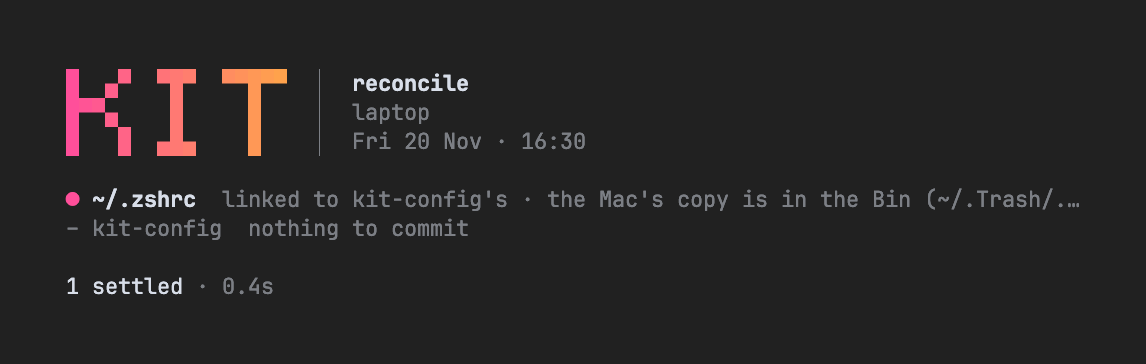
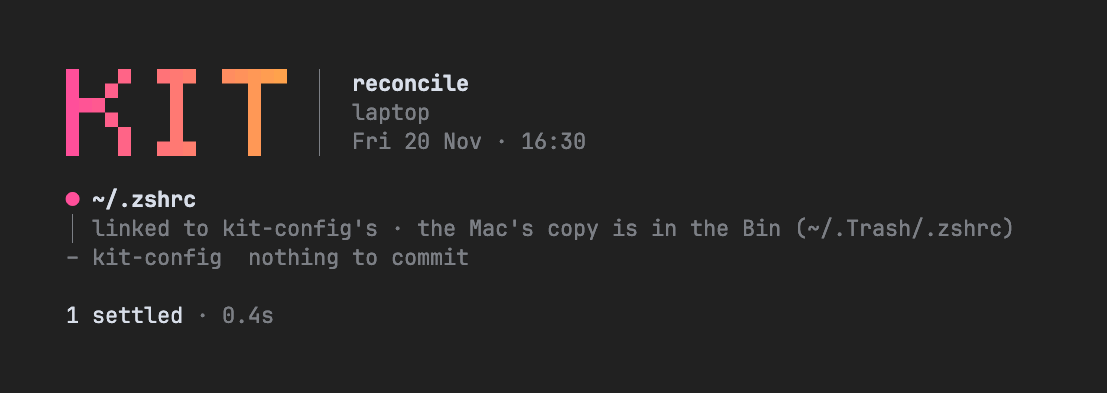
Rows left in the scrollback by setup and the boot, and the commands a run's log lists, wrap instead of being cut; docs stills are sized from what kit draws, and the moved ones are re-recorded

diff --git a/internal/capture/docs.go b/internal/capture/docs.go
@@ -2,6 +2,7 @@ package capture
 
 import (
 	"bytes"
+	"fmt"
 	"io"
 	"slices"
 	"strings"
@@ -92,22 +93,33 @@ type said struct {
 func committed(what string) said { return said{"kit-config", []string{"committed and pushed " + what}} }
 
 // result is the still name of what kit command prints at a terminal once
-// done, a row a step, kit-config's last: as wide as its longest; or, with a
-// row too long for a line, as wide as kit draws, that row stacked, as it
-// wraps under its name.
+// done, a row a step, kit-config's last: a window as small as what kit's
+// face draws of it, as fit sizes it.
 func result(name, about, command string, steps ...said) Fixture {
-	width, height := 0, 2
-	for _, s := range steps {
-		says := strings.Join(s.says, " · ")
-		if ansi.StringWidth("  ● "+s.step+"  "+says) <= look.Width {
-			width, height = max(width, ansi.StringWidth(s.step+strings.Join(s.says, "; "))+12), height+1
-			continue
-		}
-		width, height = look.Width+2, height+1+len(look.Wrap(says, look.Width-4))
-	}
-	return Fixture{Name: name, About: about, Width: min(width, look.Width+2), Height: height, Shows: "kit-config",
-		at: docsAt, draw: onFace(func(at time.Time) []event.Event { return changeRun(at, command, steps) })}
+	run := func(at time.Time) []event.Event { return changeRun(at, command, steps) }
+	width, height := fit(run(docsAt))
+	return Fixture{Name: name, About: about, Width: width, Height: height, Shows: "kit-config", at: docsAt, draw: onFace(run), fitted: true}
 }
+
+// fit is the window events are drawn in on kit's face, as small as what
+// the face draws at kit's widest: a few columns wider than its widest line,
+// no wider than kit's width and a column either side, and as high, the
+// line its cursor ends on too.
+func fit(events []event.Event) (width, height int) {
+	var out bytes.Buffer
+	if err := draw(&out, func() (int, int) { return look.Width, 0 }, events); err != nil {
+		panic(fmt.Errorf("draw a still's run: %w", err))
+	}
+	lines := strings.Split(strings.TrimSuffix(ansi.Strip(out.String()), "\n"), "\n")
+	for _, l := range lines {
+		width = max(width, ansi.StringWidth(strings.TrimRight(l, " ")))
+	}
+	return min(width+stillMargin, look.Width+2), len(lines) + 1
+}
+
+// stillMargin is how many columns a docs still's window has past its
+// widest line.
+const stillMargin = 6
 
 // changeRun is a command's run that changes things a name at a time, as
 // kit runs one: a step for each name, then kit-config's, committing and

diff --git a/internal/look/look_test.go b/internal/look/look_test.go
@@ -79,9 +79,9 @@ func TestRowsNeverBreak(t *testing.T) {
 }
 
 // A whole row is never cut: one that fits is as it is, what it keeps and
-// all; one too long for its line has its name on its own line, wrapped, and
-// what it says, with what it keeps, wrapped under it, on a timeline's line in a timeline;
-// what belongs to it goes under that.
+// all; one too long for its line has its name on its own line, wrapped,
+// and what it says, with what it keeps, wrapped under it, on a timeline's
+// line in a timeline; what belongs to it goes under that.
 func TestWholeRowsWrap(t *testing.T) {
 	names := look.Row{State: look.NeedsYou, Name: "charger:hibernatemode, charger:networkoversleep", Says: look.Yellow("need an administrator's password"), Whole: true}
 	same(t, look.Rows("  ", 90, names), "  ▲ charger:hibernatemode, charger:networkoversleep  need an administrator's password")
@@ -559,8 +559,9 @@ func TestRanOnOneLine(t *testing.T) {
 }
 
 // The boot's log: a state's bracket in the mark's place, the name, then what
-// it says; what belongs to a line under its name; the wordmark plain, with
-// what's running, the Mac and when beside it.
+// it says; what belongs to a line under its name; a line too long cut, but a
+// whole row's, wrapped under its name; the wordmark plain, with what's
+// running, the Mac and when beside it.
 func TestBootRows(t *testing.T) {
 	b := look.NewBoot(true)
 	same(t, b.Rows(look.Width,
@@ -581,6 +582,16 @@ func TestBootRows(t *testing.T) {
 		"  [    ] Password  once · Touch ID after",
 		"  [ -- ] Not here  Homebrew · 1Password",
 		"  [FAIL] kit-config  couldn't clone",
+	)
+	long := look.Row{State: look.Done, Name: "kit-config", Says: b.Says(b.Mid("cloned"), b.Mid("laptop's declarations read")), Under: []string{b.Todo("open Ghostty to carry on")}}
+	same(t, b.Rows(30, long), "  [ OK ] kit-config  cloned ·…", "         → open Ghostty to ca…")
+	long.Whole = true
+	same(t, b.Rows(30, long),
+		"  [ OK ] kit-config",
+		"         cloned · laptop's",
+		"         declarations read",
+		"         → open Ghostty to",
+		"           carry on",
 	)
 	same(t, b.Head(b.Meta("bootstrap", "Some-MacBook", "Thu 8 Oct · 18:02")...),
 		"  █  ▄▀  ▀█▀  ▀▀█▀▀  │  bootstrap",

diff --git a/internal/look/look.go b/internal/look/look.go
@@ -238,7 +238,7 @@ func named(r Row) string {
 // lines under it, wrapped too, then what belongs to it, as Timeline draws
 // it.
 func Stacked(indent string, w int, r Row) []string {
-	r = r.unbroken()
+	r = r.unbroken().kept()
 	under := indent + Dim("│") + " "
 	out := stack(indent, under, w, r)
 	for _, u := range r.Under {
@@ -250,18 +250,24 @@ func Stacked(indent string, w int, r Row) []string {
 // whole is r's line after indent, w wide, never cut: on one line, what it
 // keeps and all, when it fits; else stacked.
 func whole(indent, under string, w int, r Row) []string {
-	if r.Kept != "" {
-		r.Says, r.Kept = Says(r.Says, r.Kept), ""
-	}
+	r = r.kept()
 	if l := line(indent, r); ansi.StringWidth(l) <= w {
 		return []string{l}
 	}
 	return stack(indent, under, w, r)
 }
 
+// kept is r with what it keeps said after what it says, as a row drawn
+// whole says it.
+func (r Row) kept() Row {
+	if r.Kept != "" {
+		r.Says, r.Kept = Says(r.Says, r.Kept), ""
+	}
+	return r
+}
+
 // stack is r's line stacked after indent, w wide: its mark and its name,
-// wrapped, then what it says, and what it keeps, wrapped on the lines
-// after under.
+// wrapped, then what it says wrapped on the lines after under.
 func stack(indent, under string, w int, r Row) []string {
 	head := indent + Mark(r.State) + " "
 	room := w - ansi.StringWidth(head)
@@ -273,12 +279,8 @@ func stack(indent, under string, w int, r Row) []string {
 			out = append(out, under+l)
 		}
 	}
-	says := r.Says
-	if r.Kept != "" {
-		says = Says(says, r.Kept)
-	}
-	if says != "" {
-		for _, l := range wrap(says, room, "") {
+	if r.Says != "" {
+		for _, l := range wrap(r.Says, room, "") {
 			out = append(out, under+l)
 		}
 	}

diff --git a/internal/look/boot.go b/internal/look/boot.go
@@ -2,9 +2,11 @@ package look
 
 import (
 	"image/color"
+	"slices"
 	"strings"
 
 	"charm.land/lipgloss/v2"
+	"github.com/charmbracelet/x/ansi"
 	"rsc.io/qr"
 )
 
@@ -108,7 +110,9 @@ func (b Boot) Words(s State, text string) string {
 const BootUnder = "         "
 
 // Rows are a boot log's lines: each its tag, its name, two spaces, what it
-// says; what belongs to it under its name. Every line is cut at w.
+// says; what belongs to it under its name. Every line is cut at w, but a
+// whole row's: too long for its line, its name goes on its own, and what it
+// says, and what's under it, wrapped under the name.
 func (b Boot) Rows(w int, rs ...Row) []string {
 	var out []string
 	for _, r := range rs {
@@ -116,13 +120,26 @@ func (b Boot) Rows(w int, rs ...Row) []string {
 		if r.State == Queued || r.State == Skipped {
 			name = b.Full(r.Name)
 		}
-		l := "  " + b.Tag(r.State) + " " + name
+		head := "  " + b.Tag(r.State) + " "
+		l := head + name
 		if r.Says != "" {
 			l += "  " + r.Says
 		}
-		out = append(out, Cut(l, w))
-		for _, u := range r.Under {
-			out = append(out, Cut(BootUnder+u, w))
+		if !r.Whole || ansi.StringWidth(l) <= w {
+			out = append(out, Cut(l, w))
+			for _, u := range r.Under {
+				out = append(out, Cut(BootUnder+u, w))
+			}
+			continue
+		}
+		room := w - len(BootUnder)
+		lines := wrap(name, room, "")
+		if r.Says != "" {
+			lines = append(lines, wrap(r.Says, room, "")...)
+		}
+		out = append(out, head+lines[0])
+		for _, part := range slices.Concat(lines[1:], Fold(BootUnder[2:], w, r.Under...)) {
+			out = append(out, BootUnder+part)
 		}
 	}
 	return out

diff --git a/internal/render/setup.go b/internal/render/setup.go
@@ -366,14 +366,14 @@ func (f *SetupFace) stepRow(s event.Step, width, height int, live bool) look.Row
 	r := f.rows[s.Name]
 	if s.Name == setup.ConfigStep {
 		if c := f.rows[setup.CommitStep]; c != nil && (c.running || f.reached(c.finished)) && r != nil && r.finished != nil {
-			return f.committed(s.Title, *r.finished, c, width)
+			return leftWhole(f.committed(s.Title, *r.finished, c, width), live)
 		}
 	}
 	switch {
 	case f.q != nil && f.q.step == s.Name && f.q.kind != picking:
 		return f.asking(s.Title, width, height)
 	case r != nil && r.finished != nil:
-		return f.ended(s.Title, *r.finished, width)
+		return leftWhole(f.ended(s.Title, *r.finished, width), live)
 	case r != nil && r.running:
 		row := look.Row{State: look.Running, Name: s.Title, Says: look.Words(look.Running, cmp.Or(r.doing, "working"))}
 		if live && r.code != nil {
@@ -385,6 +385,13 @@ func (f *SetupFace) stepRow(s event.Step, width, height int, live bool) look.Row
 		return look.Row{State: look.Running, Name: s.Title, Says: look.Words(look.Running, f.parts[i].Doing)}
 	}
 	return look.Row{State: look.Queued, Name: s.Title}
+}
+
+// leftWhole is an ended step's row, never cut once the screen's left in the
+// scrollback, as the record; live, cut, as a glance.
+func leftWhole(row look.Row, live bool) look.Row {
+	row.Whole = row.Whole || !live
+	return row
 }
 
 // reached reports whether a step ended as it ran to its end: done, needing

diff --git a/internal/render/logview_test.go b/internal/render/logview_test.go
@@ -90,7 +90,8 @@ func TestLogRunKeepsASummarysParts(t *testing.T) {
 
 // At a terminal, a run's log is a timeline: the run as a row, then each
 // step after the time it started, what it ran on the line under it, each
-// command on one line, and what one that failed said, without the command.
+// command on one line, and what one that failed said, without the command,
+// wrapped, the run's own commands' as each step's.
 // A step that failed says what went wrong, and why under it, wrapped, unless a
 // command it ran said the same.
 func TestLogRun(t *testing.T) {
@@ -105,6 +106,7 @@ func TestLogRun(t *testing.T) {
 			{Name: "homebrew", Title: "Homebrew"}, {Name: "remote-session", Title: "remote-session"}, {Name: "gpg-key", Title: "gpg-key"},
 			{Name: "login-item", Title: "macOS login items"}, {Name: "fonts", Title: "fonts"},
 		}},
+		{Time: at, Event: "command", Command: "git pull", Exit: new(1), DurationMS: 900, Error: "git pull exited 1: fatal: unable to access the remote, as the network it was reached over has gone away"},
 		{Time: at, Event: "step_started", Step: "homebrew"},
 		{Time: at, Event: "command", Step: "homebrew", Command: "brew --prefix", Exit: new(0), DurationMS: 110},
 		{Time: at, Event: "step_finished", Step: "homebrew", Result: &ok, DurationMS: 120},

diff --git a/internal/render/boot_test.go b/internal/render/boot_test.go
@@ -314,6 +314,27 @@ func TestBootFaceFits(t *testing.T) {
 	}
 }
 
+// A row done is a glance on the live screen, cut; in what the boot leaves
+// in the scrollback, its record, wrapped, never cut.
+func TestBootFaceLeavesRowsWhole(t *testing.T) {
+	at := time.Date(2026, 10, 8, 18, 2, 0, 0, time.UTC)
+	f := render.NewBootFace(ask.Terminal{Out: &bytes.Buffer{}}, true, func() time.Time { return at }, nil)
+	f.Show(bootSteps)
+	said := "someone · kit-config has laptop, studio and the Mac in the next room"
+	f.Emit(event.StepFinished{Time: at, Step: "github", Result: check.Result{State: check.OK, Summary: said}})
+	if text := plainView(f, 40); !strings.Contains(text, "…") {
+		t.Errorf("live, drew\n%s\nwant the row cut", text)
+	}
+	var left []string
+	for _, l := range f.Leaves(52) {
+		left = append(left, ansi.Strip(l))
+	}
+	text := strings.Join(left, "\n")
+	if strings.Contains(text, "…") || !strings.Contains(strings.Join(strings.Fields(text), " "), said) {
+		t.Errorf("left\n%s\nwant %q whole", text, said)
+	}
+}
+
 // A step failing with a reason of several lines, as a program's standard
 // error, draws as a line a row all the same, as the screen counts them.
 func TestBootFaceRowsNeverBreak(t *testing.T) {

diff --git a/internal/render/setup_test.go b/internal/render/setup_test.go
@@ -66,14 +66,20 @@ func viewed(f *render.SetupFace, width, height int) string {
 	return ansi.Strip(strings.Join(f.View(width, height), "\n"))
 }
 
-// rowEnds are the last words of each row in lines, a row a line its mark
-// starts.
+// rowEnds are the last words of each row in lines: a line its mark starts,
+// and those on its timeline after it, as a row wraps.
 func rowEnds(lines []string) []string {
 	var out []string
+	row := false
 	for _, l := range lines {
 		words := strings.Fields(ansi.Strip(l))
-		if len(words) > 1 && slices.Contains([]string{"●", "▲", "✗", "–", "○"}, words[0]) {
-			out = append(out, words[len(words)-1])
+		switch {
+		case len(words) > 1 && slices.Contains([]string{"●", "▲", "✗", "–", "○"}, words[0]):
+			out, row = append(out, words[len(words)-1]), true
+		case row && len(words) > 1 && words[0] == "│":
+			out[len(out)-1] = words[len(words)-1]
+		default:
+			row = false
 		}
 	}
 	return out

diff --git a/internal/capture/capture_test.go b/internal/capture/capture_test.go
@@ -51,8 +51,12 @@ func TestFixtures(t *testing.T) {
 			if widest := widestLine(got); f.Held() && !f.Whole() && (widest > f.Width-2 || widest < f.Width-6) {
 				t.Errorf("drew %d columns in a window %d wide: want it a column or two wider than what it draws", widest, f.Width)
 			}
-			if lines := strings.Count(got, "\n") + 1; f.Held() && lines > f.Height {
+			lines := strings.Count(got, "\n") + 1
+			if f.Held() && lines > f.Height {
 				t.Errorf("drew %d lines in a window %d high: its head scrolls away", lines, f.Height)
+			}
+			if f.Fitted() && lines != f.Height {
+				t.Errorf("drew %d lines in a window %d high: want it as high as what it draws, the line its cursor ends on too", lines, f.Height)
 			}
 			if f.Held() && (!plainWords.MatchString(f.Shows) || !strings.Contains(got, f.Shows)) {
 				t.Errorf("shows %q: want words its screen shows, with nothing a tape's Wait+Screen reads as a pattern", f.Shows)

diff --git a/internal/render/boot.go b/internal/render/boot.go
@@ -529,7 +529,7 @@ func (f *BootFace) stepRow(s event.Step, b look.Boot, live bool) look.Row {
 		if row.State == look.Done && r.took >= 10*time.Second && !r.asked {
 			row.Says = b.Says(row.Says, b.Mid(clock(r.took)))
 		}
-		return row
+		return leftWhole(row, live)
 	case r != nil && r.running:
 		says := []string{b.Words(look.Running, cmp.Or(r.doing, "working"))}
 		if took := f.now().Sub(r.began); took >= 10*time.Second {

diff --git a/internal/capture/capture.go b/internal/capture/capture.go
@@ -33,7 +33,12 @@ type Fixture struct {
 	Shows         string
 	at            time.Time
 	draw          func(*stage) error
+	fitted        bool
 }
+
+// Fitted is whether f's window is sized to what kit's face draws in it, as
+// fit sizes it, rather than set by hand.
+func (f Fixture) Fitted() bool { return f.fitted }
 
 // Look is the terminal a still is recorded in.
 type Look string

diff --git a/internal/render/logview.go b/internal/render/logview.go
@@ -166,6 +166,7 @@ func LogRun(w io.Writer, width int, records []logs.Record) error {
 	for _, c := range commands[""] {
 		head.Under = append(head.Under, ran(c, width-4)...)
 	}
+	head.Under = look.Fold("  ", width, head.Under...)
 	out := append([]string{""}, look.Rows("  ", width, head)...)
 	out = append(out, "")
 	for _, s := range run.Steps {
